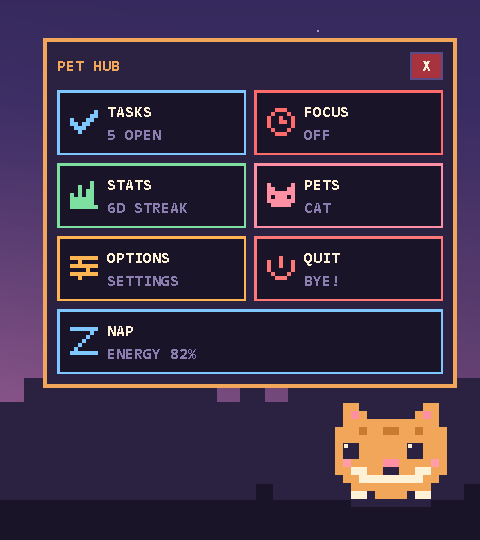
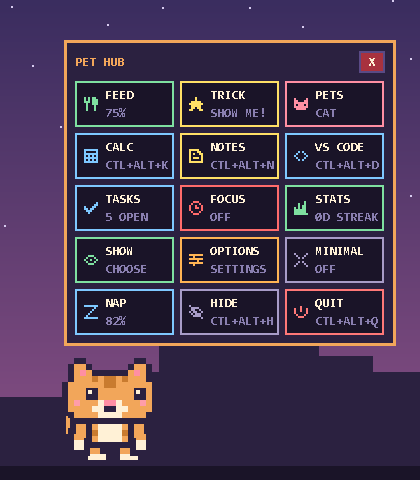
Docs: describe the live pet, the tools and the new keys
Features, hotkeys and fresh pictures of the hub and the cast. The CPU note
is from the development machine.

diff --git a/README.md b/README.md
@@ -11,15 +11,26 @@ Free and open source. One 1.8 MB exe, no installer, no account, no telemetry.
 
 - **Smart tasks.** Type like you talk: `call mom tomorrow 5pm`, `stretch in 45m`, `standup weekdays 9:30`, `team sync every monday 10am`.
 - **Focus timer.** Pomodoro presets, a daily goal, streaks and a weekly recap.
-- **Network speed.** Live download and upload speed in a bubble beside the pet.
+- **Network speed.** Live download and upload speed in a bubble beside the pet, plus CPU and memory if you like.
 - **AI token counter.** Today's and the last 7 days' tokens from Claude Code, Codex and OpenCode, read from the logs already on your PC.
-- **A pet with moods.** It stretches in the morning, naps when idle, sleeps at night and likes being stroked.
-- **Gets out of the way.** Hides behind fullscreen games and video, never steals focus.
-- **Five pets, five themes.** Cat, Dog, Mochi, Agent, Super Car; Night, Ocean, Forest, Candy, Mono.
+- **A live pet.** It walks around on its own legs (or wheels), does random tricks, gets hungry, and dozes off when nobody touches it.
+- **Hands on.** Stroke it, click to hit it (it goes dizzy, then flies), pull it until it stretches, pick it up and throw it.
+- **Feed it.** Pizza and coffee for people, fish for the cat, fuel and nitro for the car. Coffee and nitro make it run.
+- **Quick tools.** A calculator, five pages of notes saved as you type, and VS Code, one right-click away.
+- **Dances to your music.** It reads Windows' loudness meters (never the sound itself) and moves on the beat.
+- **Walks to your other monitors.** Side by side or stacked, landscape or portrait: it walks across, climbs stairs or a ladder, jumps off the edge or floats down under an umbrella.
+- **Shows what you choose.** Right-click, **Show**, and tick what you want to see; untick everything for just the pet.
+- **Gets out of the way.** Hides for fullscreen apps, games, film players, streaming sites and any program you add, never steals focus. Always-on-top and click-through are up to you.
+- **Minimal mode.** A half-size pet that keeps quiet and only speaks up for your reminders and focus timer; hover for the numbers.
+- **Tray icon.** Hover for network, CPU and memory; click to hide or show the pet, right-click for the hub.
+- **Sixteen pets, five themes.** Cat, Dog, Mochi, Agent, Super Car, Robot, Penguin, Dino, Ghost, Ninja, Astronaut, Bunny, Frog, UFO, Coder, Truck; Night, Ocean, Forest, Candy, Mono.
+- **As lively as you like.** Walking, random tricks, gravity, what a left click does and when it falls asleep are all options.
 
 | Tasks | Stats | Hub |
 |---|---|---|
 | ![Task window](media/tasks.png) | ![Stats window](media/stats.png) | ![Pet hub](media/hub.png) |
+
+![The sixteen pets](media/cast.png)
 
 ![The hub in all five themes](media/themes.png)
 
@@ -32,6 +43,9 @@ Measured on Windows 11 (Core i9-13900H), pet idle with the info bubble on, sampl
 | Download | 1.8 MB, a single exe |
 | Memory | about 17.6 MB working set (4 MB private) |
 | CPU | about 0.02% |
+
+Those numbers are from before the pets could move. An animated pet takes more: roughly 1 to 2% of one CPU core
+while it walks and plays, and the exe is 2.1 MB.
 
 ![Terminal sampling pixel-pet.exe for a minute](media/resource-usage.png)
 
@@ -51,6 +65,14 @@ To uninstall, close the pet, delete the exe and the files starting with `pixel-p
 | `Ctrl+Alt+T` | add a task |
 | `Ctrl+Alt+F` | toggle focus mode |
 | `Ctrl+Alt+S` | open the stats window |
+| `Ctrl+Alt+M` | toggle minimal mode |
+| `Ctrl+Alt+H` | hide or show the pet |
+| `Ctrl+Alt+P` | open the pet hub (or right-click the pet) |
+| `Ctrl+Alt+E` | feed the pet its favourite |
+| `Ctrl+Alt+K` | calculator |
+| `Ctrl+Alt+N` | notes |
+| `Ctrl+Alt+D` | open VS Code |
+| `Ctrl+Alt+Q` | close the pet; with **Options > Windows > Ctrl+Alt+Q opens me too**, also start it |
 
 ## Privacy
 
@@ -70,7 +92,8 @@ cargo build --release
 `scripts\package.ps1` runs the tests, builds the release exe and zips it into `dist\`.
 
 The code is plain Win32 and GDI with two dependencies (`windows-sys`, `ruzstd`). Start at `src/main.rs`;
-pets are small pixel grids in `src/art.rs`, so a new pet is a good first contribution.
+pets are small pixel grids in `src/cast.rs`, their movements are in `src/anim.rs` and their food in `src/food.rs`, so a new
+pet, trick or snack is a good first contribution. `PET_SHEET=folder cargo test contact_sheet -- --ignored` draws them all.
 
 ## Licence
 
